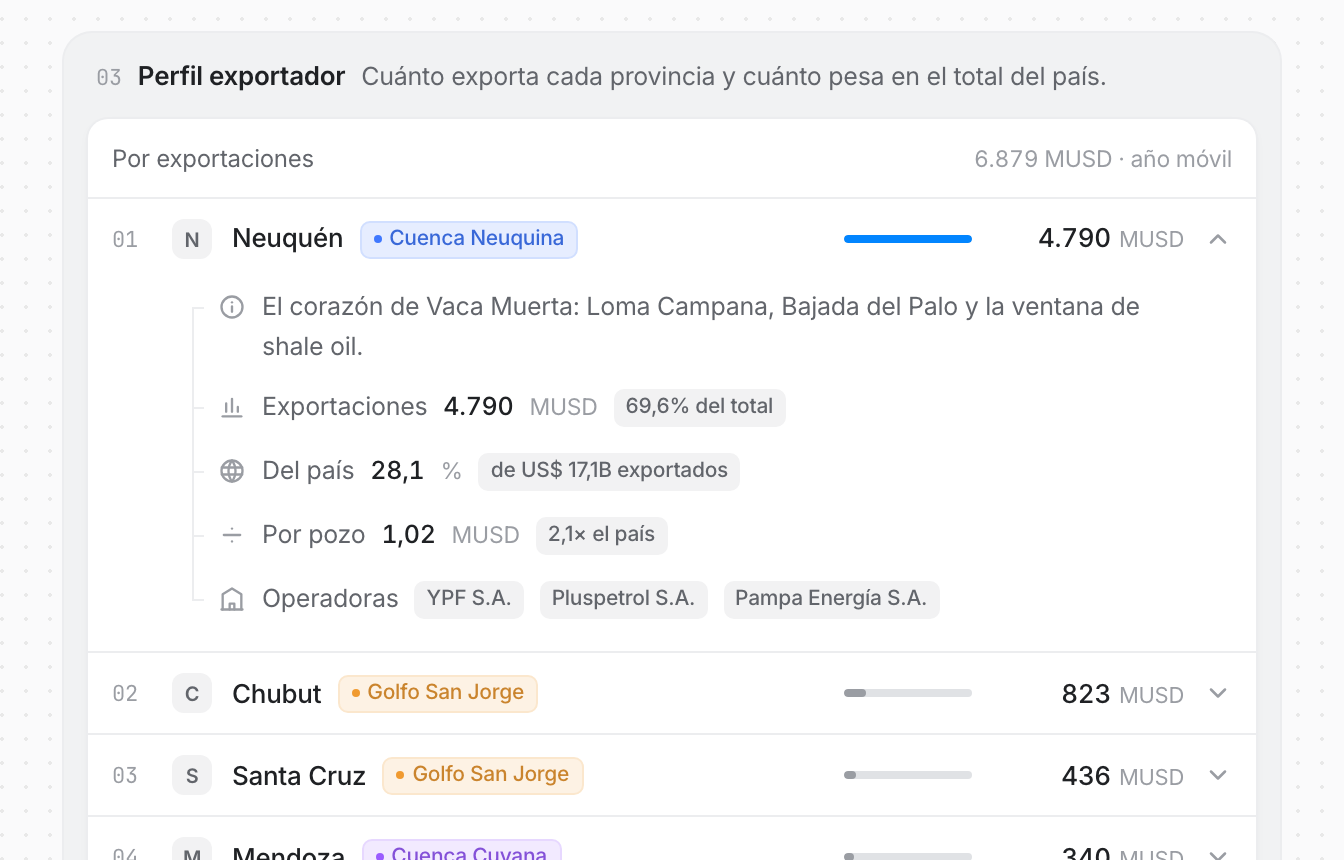
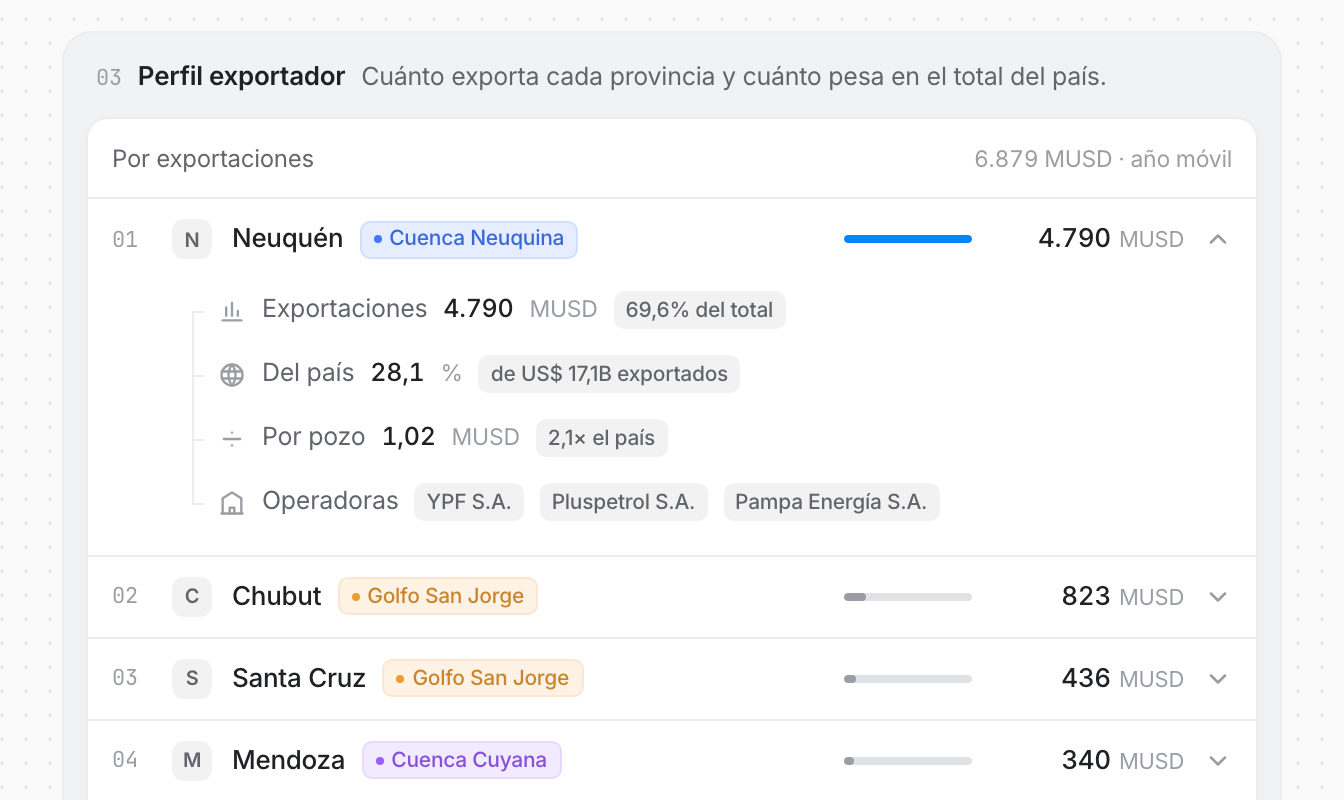
v2(provincias): la descripción va sólo en la lista de pozos
Es la misma prosa en las once provincias y no cambia entre listas, así que en
la segunda card era texto repetido ocupando el primer renglón del desglose, que
es el lugar más caro. El desglose de exportaciones pasa de 187px a 138 y abre
directo con la cifra.

De paso, un muñón de riel que aparecía al sacarla: el riel arrancaba en el
borde de arriba del primer hijo, pero el codo de un paso está a media altura,
así que quedaban 14px de línea colgando de nada. Ahora arranca en el codo. La
introducción mantiene su excepción a 12px, que es donde está el centro de su
ícono porque el párrafo envuelve. Verificado: riel y codo coinciden en 0 en las
dos listas y en los dos anchos.

diff --git a/apps/ui-prototype/src/app/v2/provincias/FilaProvincia.tsx b/apps/ui-prototype/src/app/v2/provincias/FilaProvincia.tsx
@@ -203,49 +203,54 @@ export function FilaProvincia({
                 contenedor: si no, el codo se engancharía al contenedor y habría
                 un solo codo para los cuatro. */}
             <div className="s-rama flex flex-col gap-1">
-              {/* La descripción también cuelga del riel. Estuvo suelta un rato
-                  —es prosa que presenta el desglose, no un ítem del desglose— y
-                  ahí arrancaba en 65 sin alinearse con nada: el nombre de la
-                  provincia está en 72 y los íconos de los pasos en 65.
+              {/* La descripción va SÓLO en la lista de pozos. Es la misma
+                  prosa en las once provincias y no cambia entre listas, así que
+                  en la segunda card era texto repetido ocupando el primer
+                  renglón del desglose, que es el lugar más caro.
 
-                  Usar la caja del paso arregla las dos cosas: su ícono cae en
-                  la columna de íconos (65) y su texto en la de rótulos (87), y
-                  con el codo queda enganchada a lo mismo que el resto. Lo que
-                  la sigue separando de un paso es la tipografía: prosa con
-                  interlínea holgada, sin cifra y sin badges.
+                  Cuelga del riel como el resto. Estuvo suelta un rato y ahí
+                  arrancaba en 65 sin alinearse con nada: el nombre de la
+                  provincia está en 72 y los íconos de los pasos en 65. Usar la
+                  caja del paso arregla las dos cosas —su ícono cae en la
+                  columna de íconos y su texto en la de rótulos— y con el codo
+                  queda enganchada a lo mismo que todo lo demás. Lo que la sigue
+                  separando de un paso es la tipografía: prosa con interlínea
+                  holgada, sin cifra y sin badges.
 
                   El ícono va arriba y no centrado —la prosa envuelve— con 3px
                   de corrección para quedar a media altura del primer renglón
                   (20,3 de interlínea contra 14 de ícono). El codo lo sigue
                   hasta ahí: ver .s-paso--intro en sistema.css. */}
-              <div className="s-paso s-paso--intro">
-                <svg
-                  aria-hidden
-                  width="14"
-                  height="14"
-                  viewBox="0 0 24 24"
-                  fill="none"
-                  stroke="currentColor"
-                  strokeWidth="2"
-                  strokeLinecap="round"
-                  strokeLinejoin="round"
-                  className="mt-[3px] shrink-0"
-                  style={{ color: 'var(--ink-3)' }}
-                >
-                  <circle cx="12" cy="12" r="9" />
-                  <path d="M12 11.5v4.5" />
-                  <path d="M12 8h.01" />
-                </svg>
-                {/* 12,5 con interlínea holgada e ink-2: es la receta MEDIDA de
-                    la prosa adentro de una card de la referencia
-                    (p.px-3.pt-2.pb-1.text-[12.5px].leading-relaxed.text-ink-2). */}
-                <p
-                  className="m-0 min-w-0 flex-1 text-[12.5px] leading-relaxed"
-                  style={{ color: 'var(--ink-2)', textWrap: 'pretty' }}
-                >
-                  {p.blurb}
-                </p>
-              </div>
+              {metrica === 'pozos' && (
+                <div className="s-paso s-paso--intro">
+                  <svg
+                    aria-hidden
+                    width="14"
+                    height="14"
+                    viewBox="0 0 24 24"
+                    fill="none"
+                    stroke="currentColor"
+                    strokeWidth="2"
+                    strokeLinecap="round"
+                    strokeLinejoin="round"
+                    className="mt-[3px] shrink-0"
+                    style={{ color: 'var(--ink-3)' }}
+                  >
+                    <circle cx="12" cy="12" r="9" />
+                    <path d="M12 11.5v4.5" />
+                    <path d="M12 8h.01" />
+                  </svg>
+                  {/* 12,5 con interlínea holgada e ink-2: es la receta MEDIDA de
+                      la prosa adentro de una card de la referencia
+                      (p.px-3.pt-2.pb-1.text-[12.5px].leading-relaxed.text-ink-2). */}
+                  <p
+                    className="m-0 min-w-0 flex-1 text-[12.5px] leading-relaxed"
+                    style={{ color: 'var(--ink-2)', textWrap: 'pretty' }}
+                  >
+                    {p.blurb}
+                  </p>
+                </div>
+              )}
 
               {/* El orden de las lecturas lo manda la métrica que ordena la
                   lista: la sección que habla de exportaciones abre con

diff --git a/apps/ui-prototype/src/app/v2/sistema.css b/apps/ui-prototype/src/app/v2/sistema.css
@@ -623,7 +623,11 @@
   width: 1px;
   background: var(--line);
 }
-.s-rama > *:first-child::before { top: 0; }
+/* El riel arranca en el codo del primer hijo y no en su borde de arriba: si no
+   queda un muñón colgando de nada. En un paso el codo está a media altura; en
+   la introducción, a 12px, que es donde está el centro de su ícono. */
+.s-rama > *:first-child::before { top: 50%; }
+.s-rama > .s-paso--intro:first-child::before { top: 12px; }
 .s-rama > *:last-child::before {
   bottom: auto;
   height: calc(50% + 4px);
@@ -641,7 +645,5 @@
 /* La introducción cuelga por su PRIMER renglón y no por su centro: el párrafo
    envuelve —dos líneas en desktop, tres a 375— y su mitad cae entre renglones,
    con lo cual el codo apuntaría a un hueco. 12px es donde está el centro del
-   ícono: 2 de padding + 3 de corrección de línea de base + 7 de medio ícono.
-   El riel arranca ahí mismo, que es de donde cuelga la primera línea. */
+   ícono: 2 de padding + 3 de corrección de línea de base + 7 de medio ícono. */
 .s-rama > .s-paso--intro::after { top: 12px; }
-.s-rama > .s-paso--intro:first-child::before { top: 12px; }
